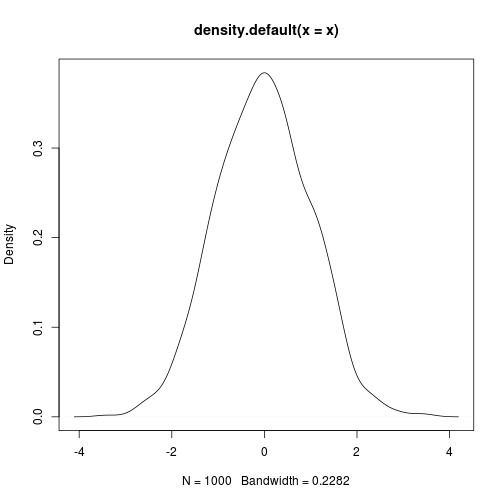
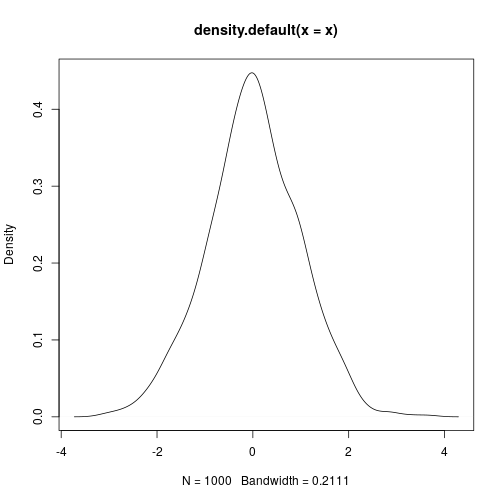
adding files

diff --git a/_episodes/02-literate-programming.md b/_episodes/02-literate-programming.md
@@ -245,7 +245,7 @@ plot(density(x))
 head(x)
 </code></pre>
 
-<pre><code>## [1] -0.66386327 -1.62717975  0.06098557  1.29772208  0.41090427 -0.31804688
+<pre><code>## [1]  0.1470681  0.2522050 -1.0190714  0.2975389 -0.4204491 -0.2769255
 </code></pre>
 
 <p><code>knitr</code> offers a lot of control over representing different
@@ -254,7 +254,7 @@ computed on the fly.</p>
 
 <p>The mean \(\bar{x} = \frac{1}{n} \sum_{i=1}^{n} x_{i}\) of the
 1000 random variates we generated is
--0.013.</p>
+-0.041.</p>
 
 <p>This figure is computed on-the-fly as well. No more
 copy-paste, including for figures:</p>
@@ -262,7 +262,7 @@ copy-paste, including for figures:</p>
 <pre><code class="r">plot(density(x))
 </code></pre>
 
[2 lines of base64/hex data omitted]
 
 
 

diff --git a/_episodes/04-bibliographic-citations.md b/_episodes/04-bibliographic-citations.md
@@ -2,18 +2,19 @@
 title: "Adding citations to your R Markdown manuscript"
 author: "Tim Dennis"
 date: "August 20, 2017"
-bibliography: decoupling-dns.bib
-teaching: 45
-questions:
-- "How do I add citations to my RMarkdown document?"
-- "How can I integrate Zotero citations into my RMarkdown document?"
+output:
+  pdf_document: default
+  html_document: default
 objectives:
-- "Define a bibliography in RMarkdown header"
-- "Apply citations inline in document text"
-- "Use an existing Zotero bibliography in RStudio"
-keypoints:
-- ""
-output: html_document
+- Define a bibliography in RMarkdown header
+- Apply citations inline in document text
+- Use an existing Zotero bibliography in RStudio
+keypoints: ''
+questions:
+- How do I add citations to my RMarkdown document?
+- How can I integrate Zotero citations into my RMarkdown document?
+teaching: 45
+bibliography: decoupling-dns.bib
 ---
 
 
@@ -150,15 +151,58 @@ nocite: |
   @qian, @minsky
 ...
 
-## Zotero integration 
+## Using Zotero 
 
-Now we have the basics down, let's think about our bibliography file again. Bibtex is nice and provides structure so a machine can read it, but we don't really want to write it ourself. We can let Zotero do that for us and keep an up-to-date synched Bibtex file in our project folder. That way we can use the more user friendly tool to create and mantain references and always have the latest copy in our project so R can read. 
+Now we have the basics down, let's think about our bibliography file again. Bibtex is nice and provides structure so a machine can read it, but we don't really want to write it ourself. We can let Zotero do that for us and export BibTex file as needed into our R project. We also can use the Zotero Better BibTex plugin to auto-save that BibTex bibliography to our project. Unfortunately, this plugin is broken for Zotero 5 and currently only works in 4. However, they are working on it. Regardless, using Zotero mean that we can use the more user friendly tool to create and mantain references and use that in our project so R can consume. 
 
-What do we need? 
+## Manually Exporting a Bibliography 
 
-1. Zotero with the BetterBibTex plugin installed
-2. A bibliography 
+![Screenshot of Zotero export](../media/zotero5-bib-export.png)
 
 
+
+## Auto-synched Method (Only Zotero 4)
+
+![Screenshot of Zotero export](../media/zotero-better-bibtex.png)
+
+Once you have Zotero-Better-BibTex installed in Zotero 4 you can keep it updated. 
+
+## Citr - An Easier Way to Add Citations
+
+RStudio has this concept of `Addins` that add functionality to the interface when installed. Citr is a R package that, when installed, will add an `Addin` for adding citations to our text. Let's install and see how that works now: 
+
+
+~~~
+install.packages('citr')
+#note that packages that install addins don't need to be referenced by library()
+~~~
+{: .r}
+
+We can now look under the `Addins` dropdown above and see an `insert citations` option. We can also add a keyboard short for this action by selecting `Tools>Modify Keyboard Shortcuts...` and adding the keyboard shortcut for insert citation. Right now, we'll use the menu option. 
+
+![Insert Citations Dialog](../media/insert-citation.png)
+
+The first time you use this it will need to load the bib file. Once loaded, we can select references! 
+
+![Adding references](../media/adding-refs-citr.png)
+
+After you click `Insert citation` your citations will be dropped in whereever your cursor is.  
+
+The simulation of virtual communication has been widely studied. This
+approach is less expensive than ours. On a similar note, recent work by
+Anderson and Raman [@moore; @thomas; @williams] suggests a system for evaluating
+interactive technology, but does not offer an implementation.
+Contrarily, these solutions are entirely orthogonal to our efforts.
+
+
+>The seminal methodology by Thomas et al. [@dekker03; @jackson; @minsky] does not provide
+multicast methodologies as well as our method. On a similar note, Raman
+and Smith suggested a scheme for enabling “smart” configurations, but
+did not fully realize the implications of forward-error correction at
+the time . Unlike many prior approaches, we do not
+attempt to manage or request the development of DHCP. a litany of
+existing work supports our use of Smalltalk.
+
+## Other Citation Styles
 
 ## References

diff --git a/_episodes_rmd/rmd_example.md b/_episodes_rmd/rmd_example.md
@@ -7,7 +7,7 @@ head(x)
 ```
 
 ```
-## [1] -0.66386327 -1.62717975  0.06098557  1.29772208  0.41090427 -0.31804688
+## [1]  0.1470681  0.2522050 -1.0190714  0.2975389 -0.4204491 -0.2769255
 ```
 
 `knitr` offers a lot of control over representing different
@@ -16,7 +16,7 @@ computed on the fly.
 
 The mean $\bar{x} = \frac{1}{n} \sum_{i=1}^{n} x_{i}$ of the
 1000 random variates we generated is
--0.013.
+-0.041.
 
 This figure is computed on-the-fly as well. No more
 copy-paste, including for figures:

diff --git a/_episodes/rmd_example.md b/_episodes/rmd_example.md
@@ -7,7 +7,7 @@ head(x)
 ```
 
 ```
-## [1]  1.8704016 -0.7559773  0.0212779 -0.8932887 -1.3446511 -1.1520600
+## [1] -0.5824092 -0.1570787  0.4630926  1.1139655  0.4288377 -0.1608085
 ```
 
 `knitr` offers a lot of control over representing different
@@ -16,7 +16,7 @@ computed on the fly.
 
 The mean $\bar{x} = \frac{1}{n} \sum_{i=1}^{n} x_{i}$ of the
 1000 random variates we generated is
--0.023.
+0.012.
 
 This figure is computed on-the-fly as well. No more
 copy-paste, including for figures:
